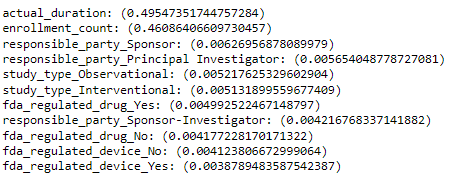
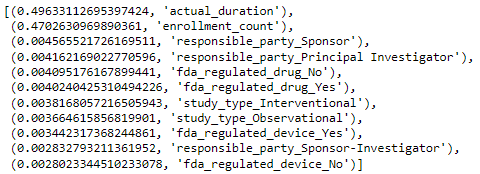
Update importance features plot

diff --git a/README.md b/README.md
@@ -23,9 +23,9 @@ While the purview of this project is restricted to clinical trials of breast can
 
 &#9989; Description of data exploration phase<br>
 #### 1. Extract, Transfer, Load and Clean the data <br> 
-(Please feel free to edit this Gahyun and Annekah)
 
-*Progress Status*: All data was extracted from [clinicaltrials.gov API](https://clinicaltrials.gov/api/gui/home), cleaned and loaded into 5 [tables](https://github.com/AnneLonero/Clinical_Trials_Research_Project/tree/main/Tables).
+*Progress Status*: All data was extracted from [clinicaltrials.gov API](https://clinicaltrials.gov/api/gui/home), cleaned and loaded into 5 [tables](https://github.com/AnneLonero/Clinical_Trials_Research_Project/tree/main/Tables).<br>
+
 Data extracted as json files from [clinicaltrials.gov API](https://clinicaltrials.gov/api/gui/home) were converted into multiple DataFrames for data cleaning. 
 ![Pre-cleaned dataframe](Images/pre_cleaned_data.jpg)<br>
 As shown above, all values in DataFrames were enclosed by ```[]``` brackets, which needed to be removed for data processing. All dataframes' values were first converted to string, then each values were run through ```for``` loops to remove the brackets through regular expression. All columns were then renamed. 
@@ -50,7 +50,7 @@ The database was built in Postgre pgAdmin using 5 separate tables and used `ID` 
 * Supervised Learning Models were built for both Observation and Interventional studies to explore and evaluate the potential features for our model. 
 * Machine learning models were performed for each study types since each had different set of contributing characteristics that needed to be examined more closely. 
 * `Status` column would be the target. The `Unknown Status` was dropped since it did't serve any purpose for our analysis. All other studies status were separated into 2 buckets. `High_chance` includes `Completed, Recruiting, Enrolling by invitation`, and `low_chance` includes `Withdrawn, Terminated, Suspendended, Not yet recruiting, and Active, not Recruiting`.
-* All models were built using `RandomForestClassifer`,`BalancedRandomForest`, an `LogisticRegression` and later resampled using `NaiveRandomSampling`, `SMOTE`, `UnderSampling`, and `Combination(OverandUnder)Sampling - SMOTEENN`.
+* All models were built using `RandomForestClassifer`,`BalancedRandomForest`, an `LogisticRegression` models and later resampled using 4 methods: `NaiveRandomSampling`, `SMOTE`, `UnderSampling`, and `Combination(OverandUnder)Sampling - SMOTEENN`.
 
 #### 4. Display Analysis Results and Findings using Tableau
 A large number of visualizations were able to be made from our different CSV files that we created. 
@@ -101,29 +101,31 @@ We were able to look at:
 
 ### Observational and Interventional Studies - Supervised Learning Model
 
+Out of 3 models tested, `BalancedRandomForest` shows the best performance with the balanced accuracy of 59%. Using this model to resample with 4 resampling methods; however, none of the methods produce a better result.
+
 * Random Forest Classifier<br>
-![Ivs/Obs](Images/Machine%20Learning%20Results/ivs_obs_random_forest.png)
-![Ivs/Obs](Images/Machine%20Learning%20Results/ivs_obs_features_importance.png)<br><br>
+![Ivs/Obs - Random Forest](Images/Machine%20Learning%20Results/ivs_obs_random_forest.png)
+![Ivs/Obs - Random Forest](Images/Machine%20Learning%20Results/ivs_obs_features_importance.png)<br><br>
 
 * Banlanced Random Forest Classifier<br>
-![Ivs/Obs](Images/Machine%20Learning%20Results/ivs_obs_balanced_random_forest.png)<br><br>
+![Ivs/Obs - Balanced Random Forest](Images/Machine%20Learning%20Results/ivs_obs_balanced_random_forest.png)<br><br>
 
 * Logistic Regression Model <br>
-![Ivs/Obs](Images/Machine%20Learning%20Results/ivs_obs_lr.png)
+![Ivs/Obs - Logistic Regression](Images/Machine%20Learning%20Results/ivs_obs_lr.png)
 <br><br>
 
 * Re-Sampling<br>
     - Oversampling: Random Over Sampling <br>
-    ![Ivs/Obs](Images/Machine%20Learning%20Results/ivs_obs_random_oversampling.png)
+    ![Ivs/Obs - ROS](Images/Machine%20Learning%20Results/ivs_obs_random_oversampling.png)
 
     - Oversampling: SMOTE <br>
-    ![Ivs/Obs](Images/Machine%20Learning%20Results/ivs_obs_SMOTE.png)
+    ![Ivs/Obs - SMOTE](Images/Machine%20Learning%20Results/ivs_obs_SMOTE.png)
 
     - Undersampling: Cluster Centroid <br>
-    ![Ivs/Obs](Images/Machine%20Learning%20Results/ivs_obs_undersampling.png)
+    ![Ivs/Obs - Cluster Centroid](Images/Machine%20Learning%20Results/ivs_obs_undersampling.png)
 
     - Combination: SMOTEENN <br>
-    ![Ivs/Obsl](Images/Machine%20Learning%20Results/ivs_obs_SMOTEENN.png)
+    ![Ivs/Obsl - SMOTEENN](Images/Machine%20Learning%20Results/ivs_obs_SMOTEENN.png)
 
 
 ### Observational Studies ONLY - Supervised Learning Model
@@ -152,7 +154,7 @@ Multiple learning machine models (Random Forest, Balanced Random Forest, and Log
     ![Observational - SMOTE](Images/Machine%20Learning%20Results/obs_smote.jpg)
 
     - Undersampling: Cluster Centroid <br>
-    ![Observational - Cluster Centroie](Images/Machine%20Learning%20Results/obs_cluster.jpg)
+    ![Observational - Cluster Centroid](Images/Machine%20Learning%20Results/obs_cluster.jpg)
 
     - Combination: SMOTEENN <br>
     ![Observational - SMOTEENN](Images/Machine%20Learning%20Results/obs_smoteenn.jpg)
